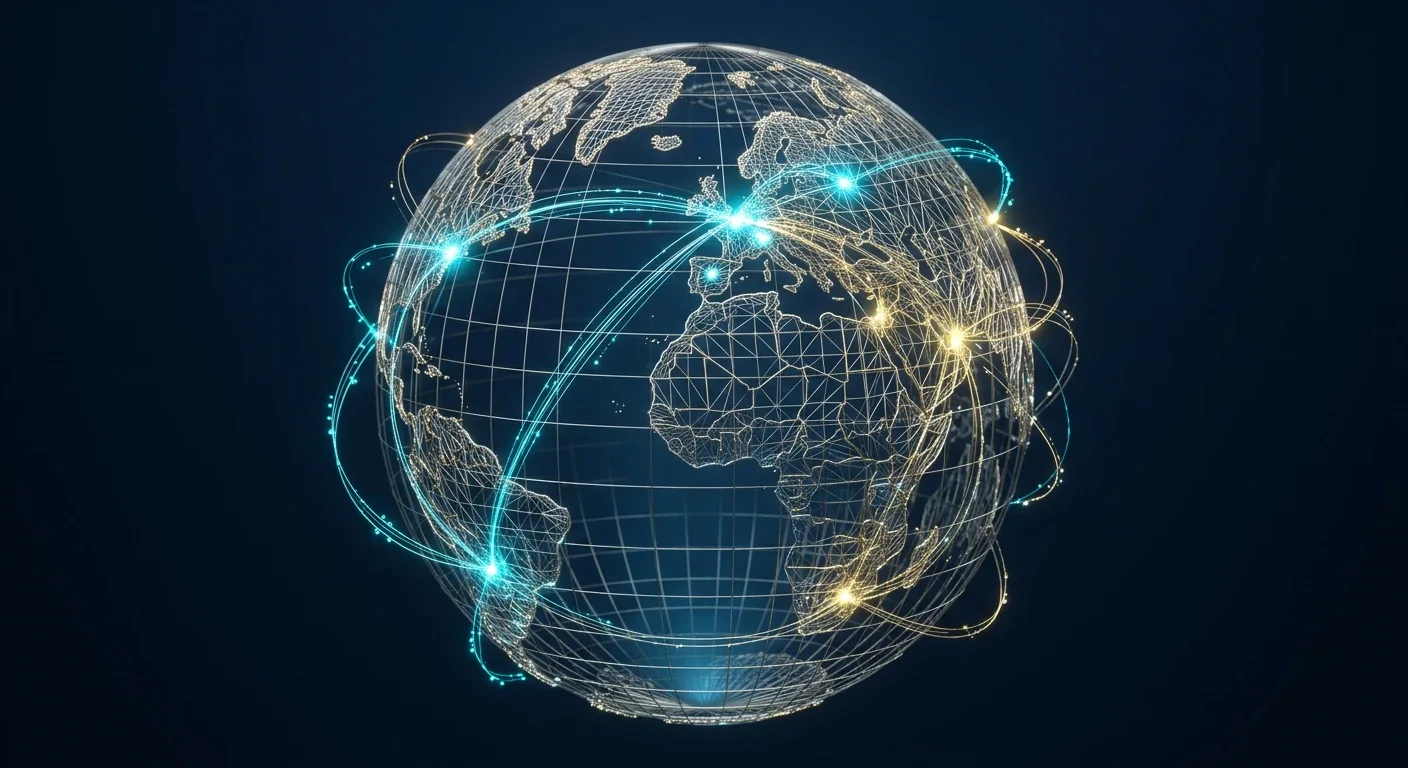
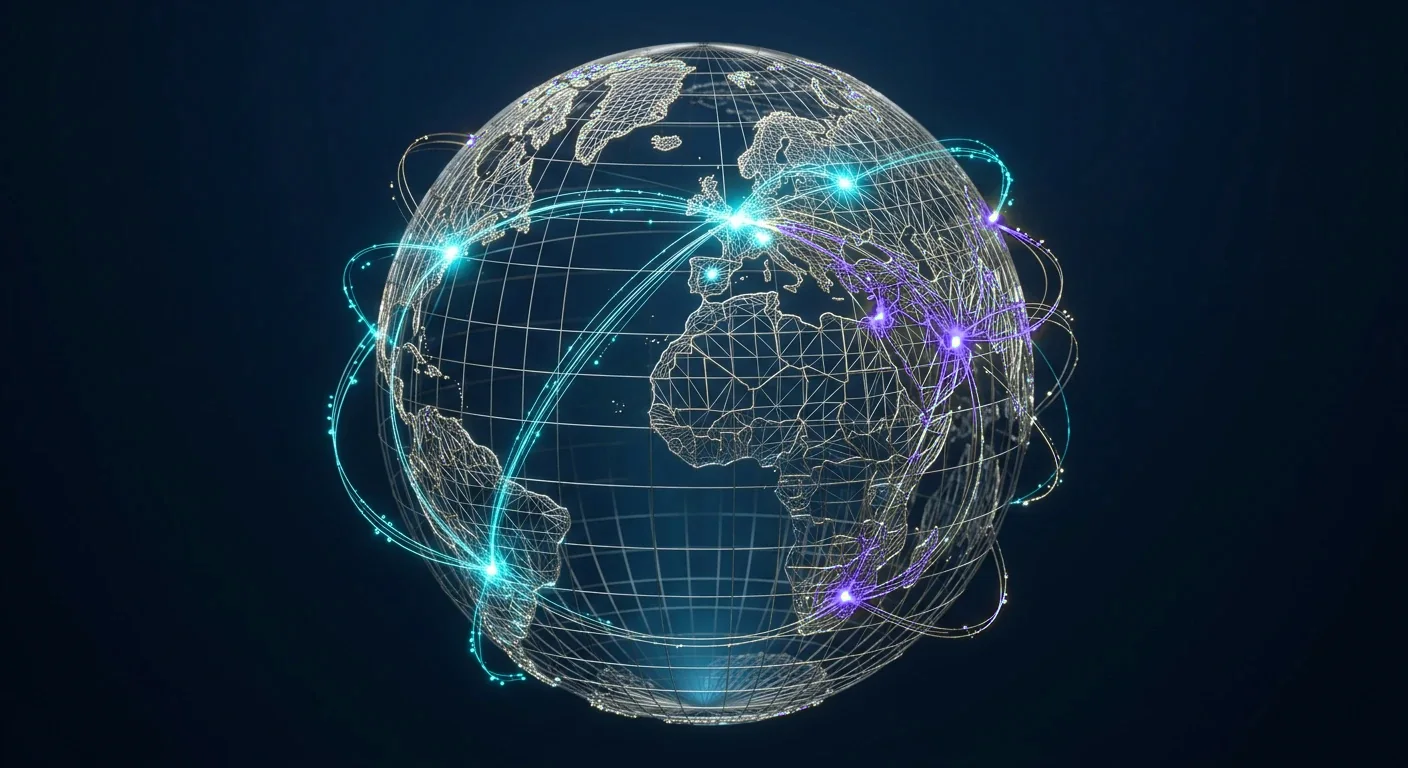
Recolour the globe's gold routes to brand Violet
Keeps the supplied original in site/art/source and the recolour script in
site/art/recolour.py so the shift can be re-tuned.

Claude-Session: https://claude.ai/code/session_01LQ4wHwsSD461jU5JaRTfKp

diff --git a/site/art/recolour.py b/site/art/recolour.py
@@ -1,0 +1,27 @@
+# Shift the gold routes in the supplied globe image to brand Violet (#6C3AED).
+# python3 site/art/recolour.py site/art/source/liquidity-globe-original.webp site/src/assets/img/liquidity-globe.webp preview.png
+import sys, numpy as np
+from PIL import Image
+src, out, preview = sys.argv[1:4]
+rgb = np.asarray(Image.open(src).convert('RGB')).astype(np.float32) / 255
+hsv = np.asarray(Image.open(src).convert('RGB').convert('HSV')).astype(np.float32)
+h, s, v = hsv[..., 0] * 360 / 255, hsv[..., 1] / 255, hsv[..., 2] / 255
+# weight: gold/amber hues (20-65 deg), fading out by 80 deg; only reasonably saturated pixels
+hue_w = np.clip((80 - h) / 15, 0, 1) * np.clip((h - 8) / 12, 0, 1)
+sat_w = np.clip((s - 0.07) / 0.10, 0, 1)
+w = hue_w * sat_w
+# target: brand Violet #6C3AED (hue ~263), lifted slightly so glows stay luminous on Midnight
+target = np.array(Image.new('RGB', (1, 1), (108, 58, 237)).convert('HSV')).astype(np.float32).reshape(3)
+th = target[0]
+new_h = h * (1 - w) + (th * 360 / 255) * w
+new_s = np.clip(s * (1 - w) + np.minimum(1, s * 1.5 + 0.05) * w, 0, 1)
+new_v = np.clip(v * (1 - w) + np.minimum(1, v * 1.08) * w, 0, 1)
+out_hsv = np.stack([new_h * 255 / 360, new_s * 255, new_v * 255], -1).round().clip(0, 255).astype(np.uint8)
+im = Image.fromarray(out_hsv, 'HSV').convert('RGB')
+im.save(out, 'WEBP', quality=84, method=6)
+before = Image.open(src).convert('RGB')
+w2 = before.width // 2
+sheet = Image.new('RGB', (w2 * 2 + 10, before.height // 2), 'white')
+sheet.paste(before.resize((w2, before.height // 2)), (0, 0)); sheet.paste(im.resize((w2, before.height // 2)), (w2 + 10, 0))
+sheet.save(preview)
+print('pixels shifted (w>0.5):', int((w > 0.5).sum()))
